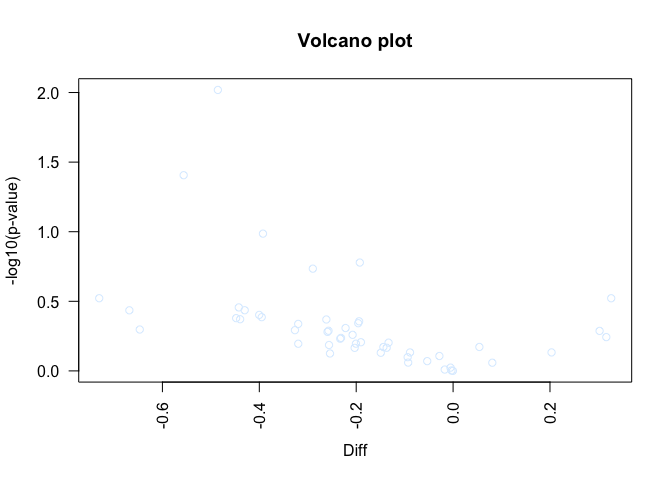
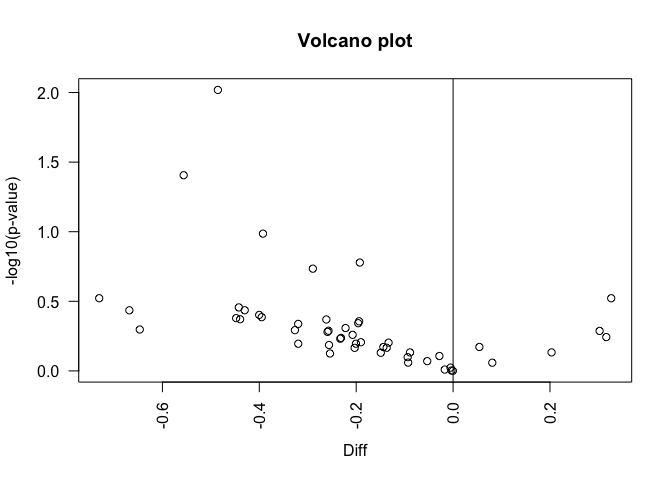
recompiled proteomics Stare

diff --git a/stat-R_2020/practicals/proteomics_Stare_2019/Stare_data-analysis.html b/stat-R_2020/practicals/proteomics_Stare_2019/Stare_data-analysis.html
@@ -855,24 +855,34 @@ Heatmap of log2-transformed values (NA filtered).
 <a class="sourceLine" id="cb24-24" data-line-number="24">  statPerProt[i, <span class="st">&quot;df&quot;</span>] &lt;-<span class="st"> </span>test.result<span class="op">$</span>parameter</a>
 <a class="sourceLine" id="cb24-25" data-line-number="25">  statPerProt[i, <span class="st">&quot;p.value&quot;</span>] &lt;-<span class="st"> </span>test.result<span class="op">$</span>p.value</a>
 <a class="sourceLine" id="cb24-26" data-line-number="26">}</a>
-<a class="sourceLine" id="cb24-27" data-line-number="27"><span class="co"># View(statPerProt)</span></a></code></pre></div>
+<a class="sourceLine" id="cb24-27" data-line-number="27"></a>
+<a class="sourceLine" id="cb24-28" data-line-number="28"><span class="co"># View(statPerProt)</span></a></code></pre></div>
+<div id="multiple-testing-corrections" class="section level3">
+<h3>Multiple testing corrections</h3>
+<div class="sourceCode" id="cb25"><pre class="sourceCode r"><code class="sourceCode r"><a class="sourceLine" id="cb25-1" data-line-number="1">statPerProt<span class="op">$</span>e.value &lt;-<span class="st"> </span>statPerProt<span class="op">$</span>p.value <span class="op">*</span><span class="st"> </span><span class="kw">nrow</span>(nona)</a>
+<a class="sourceLine" id="cb25-2" data-line-number="2">statPerProt<span class="op">$</span>q.value &lt;-<span class="st"> </span>qvalue<span class="op">::</span><span class="kw">qvalue</span>(statPerProt<span class="op">$</span>p.value)<span class="op">$</span>qvalues</a>
+<a class="sourceLine" id="cb25-3" data-line-number="3">statPerProt<span class="op">$</span>padj &lt;-<span class="st"> </span><span class="kw">p.adjust</span>(statPerProt<span class="op">$</span>p.value, <span class="dt">method =</span> <span class="st">&quot;BY&quot;</span>)</a></code></pre></div>
+</div>
 <div id="histogram-of-the-p-values" class="section level3">
 <h3>Histogram of the p-values</h3>
-<div class="sourceCode" id="cb25"><pre class="sourceCode r"><code class="sourceCode r"><a class="sourceLine" id="cb25-1" data-line-number="1"><span class="kw">hist</span>(statPerProt<span class="op">$</span>p.value, </a>
-<a class="sourceLine" id="cb25-2" data-line-number="2">     <span class="dt">main =</span> <span class="st">&quot;P-value histogram&quot;</span>, </a>
-<a class="sourceLine" id="cb25-3" data-line-number="3">     <span class="dt">xlab =</span> <span class="st">&quot;p-value&quot;</span>,</a>
-<a class="sourceLine" id="cb25-4" data-line-number="4">     <span class="dt">ylab =</span> <span class="st">&quot;number of proteins&quot;</span>, <span class="dt">las =</span> <span class="dv">2</span>, <span class="dt">col =</span> <span class="st">&quot;#DDEEFF&quot;</span>,</a>
-<a class="sourceLine" id="cb25-5" data-line-number="5">     <span class="dt">breaks =</span> <span class="kw">seq</span>(<span class="dt">from =</span> <span class="dv">0</span>, <span class="dt">to =</span> <span class="dv">1</span>, <span class="dt">by =</span> <span class="fl">0.05</span>))</a></code></pre></div>
+<div class="sourceCode" id="cb26"><pre class="sourceCode r"><code class="sourceCode r"><a class="sourceLine" id="cb26-1" data-line-number="1"><span class="kw">hist</span>(statPerProt<span class="op">$</span>p.value, </a>
+<a class="sourceLine" id="cb26-2" data-line-number="2">     <span class="dt">main =</span> <span class="st">&quot;P-value histogram&quot;</span>, </a>
+<a class="sourceLine" id="cb26-3" data-line-number="3">     <span class="dt">xlab =</span> <span class="st">&quot;p-value&quot;</span>,</a>
+<a class="sourceLine" id="cb26-4" data-line-number="4">     <span class="dt">ylab =</span> <span class="st">&quot;number of proteins&quot;</span>, <span class="dt">las =</span> <span class="dv">2</span>, <span class="dt">col =</span> <span class="st">&quot;#DDEEFF&quot;</span>,</a>
+<a class="sourceLine" id="cb26-5" data-line-number="5">     <span class="dt">breaks =</span> <span class="kw">seq</span>(<span class="dt">from =</span> <span class="dv">0</span>, <span class="dt">to =</span> <span class="dv">1</span>, <span class="dt">by =</span> <span class="fl">0.05</span>))</a></code></pre></div>
 <p><img src="figures/data-structures_pval_histo-1.png" width="60%" style="display: block; margin: auto;" /></p>
 </div>
 <div id="volcano-plot" class="section level3">
 <h3>Volcano plot</h3>
-<div class="sourceCode" id="cb26"><pre class="sourceCode r"><code class="sourceCode r"><a class="sourceLine" id="cb26-1" data-line-number="1"><span class="kw">plot</span>(statPerProt<span class="op">$</span>diff, </a>
-<a class="sourceLine" id="cb26-2" data-line-number="2">     <span class="op">-</span><span class="kw">log10</span>(statPerProt<span class="op">$</span>p.value), </a>
-<a class="sourceLine" id="cb26-3" data-line-number="3">     <span class="dt">main =</span> <span class="st">&quot;Volcano plot&quot;</span>, </a>
-<a class="sourceLine" id="cb26-4" data-line-number="4">     <span class="dt">xlab =</span> <span class="st">&quot;Diff&quot;</span>,</a>
-<a class="sourceLine" id="cb26-5" data-line-number="5">     <span class="dt">ylab =</span> <span class="st">&quot;-log10(p-value)&quot;</span>, <span class="dt">las =</span> <span class="dv">2</span>, <span class="dt">col =</span> <span class="st">&quot;#DDEEFF&quot;</span>,</a>
-<a class="sourceLine" id="cb26-6" data-line-number="6">     <span class="dt">breaks =</span> <span class="kw">seq</span>(<span class="dt">from =</span> <span class="dv">0</span>, <span class="dt">to =</span> <span class="dv">1</span>, <span class="dt">by =</span> <span class="fl">0.05</span>))</a></code></pre></div>
+<div class="sourceCode" id="cb27"><pre class="sourceCode r"><code class="sourceCode r"><a class="sourceLine" id="cb27-1" data-line-number="1"><span class="kw">plot</span>(statPerProt<span class="op">$</span>diff, </a>
+<a class="sourceLine" id="cb27-2" data-line-number="2">     <span class="op">-</span><span class="kw">log10</span>(statPerProt<span class="op">$</span>p.value), </a>
+<a class="sourceLine" id="cb27-3" data-line-number="3">     <span class="dt">main =</span> <span class="st">&quot;Volcano plot&quot;</span>, </a>
+<a class="sourceLine" id="cb27-4" data-line-number="4">     <span class="dt">xlab =</span> <span class="st">&quot;Diff&quot;</span>,</a>
+<a class="sourceLine" id="cb27-5" data-line-number="5">     <span class="dt">ylab =</span> <span class="st">&quot;-log10(p-value)&quot;</span>, <span class="dt">las =</span> <span class="dv">2</span>)</a>
+<a class="sourceLine" id="cb27-6" data-line-number="6"><span class="kw">abline</span>(<span class="dt">v =</span> <span class="dv">0</span>)</a>
+<a class="sourceLine" id="cb27-7" data-line-number="7"></a>
+<a class="sourceLine" id="cb27-8" data-line-number="8">alpha &lt;-<span class="st"> </span><span class="fl">0.05</span><span class="op">/</span><span class="kw">nrow</span>(nona)</a>
+<a class="sourceLine" id="cb27-9" data-line-number="9"><span class="kw">abline</span>(<span class="dt">h =</span> <span class="op">-</span><span class="kw">log10</span>(alpha))</a></code></pre></div>
 <p><img src="figures/data-structures_volcano-1.png" width="60%" style="display: block; margin: auto;" /></p>
 </div>
 </div>

diff --git a/stat-R_2020/practicals/proteomics_Stare_2019/Stare_data-analysis.md b/stat-R_2020/practicals/proteomics_Stare_2019/Stare_data-analysis.md
@@ -495,7 +495,17 @@ for (i in 1:nrow(nona)) {
   statPerProt[i, "df"] <- test.result$parameter
   statPerProt[i, "p.value"] <- test.result$p.value
 }
+
 # View(statPerProt)
+```
+
+### Multiple testing corrections
+
+
+```r
+statPerProt$e.value <- statPerProt$p.value * nrow(nona)
+statPerProt$q.value <- qvalue::qvalue(statPerProt$p.value)$qvalues
+statPerProt$padj <- p.adjust(statPerProt$p.value, method = "BY")
 ```
 
 
@@ -520,8 +530,11 @@ plot(statPerProt$diff,
      -log10(statPerProt$p.value), 
      main = "Volcano plot", 
      xlab = "Diff",
-     ylab = "-log10(p-value)", las = 2, col = "#DDEEFF",
-     breaks = seq(from = 0, to = 1, by = 0.05))
+     ylab = "-log10(p-value)", las = 2)
+abline(v = 0)
+
+alpha <- 0.05/nrow(nona)
+abline(h = -log10(alpha))
 ```
 
 <img src="figures/data-structures_volcano-1.png" width="60%" style="display: block; margin: auto;" />
